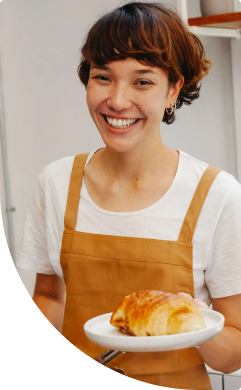
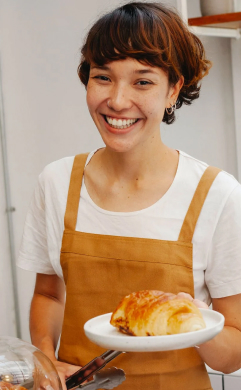
add imeges

Changed region(s): [[0.0, 0.5231, 0.8133, 1.0], [0.9876, 0.9846, 1.0, 1.0], [0.9876, 0.0, 1.0, 0.0308]]

diff --git a/css/styles.css b/css/styles.css
@@ -33,13 +33,16 @@
 :root {
   ---color-primary-dark: #31261a;
   ---color-primary-light: #faf4ea;
-  --color-brand-light: #819857;
+  ---color-secondary-dark: #a28268;
+  --color-brand-normal: #819857;
   ---color-brand-dark: #465929;
+  ---color-brand-light: #cfcfbc;
 }
 
 /* Base*/
 body {
   color: var(---color-primary-dark);
+  background-color: var(---color-primary-light);
   line-height: 1.5;
   font-family: "poppis", sans-serif;
   font-size: 18px;
@@ -87,8 +90,8 @@ ul {
   padding: 16px 32px;
   color: var(---color-primary-light);
   font-weight: 600;
-  background-color: var(--color-brand-light);
-  border: 2px solid var(--color-brand-light);
+  background-color: var(--color-brand-normal);
+  border: 2px solid var(--color-brand-normal);
   border-radius: 8px;
   cursor: pointer;
 }
@@ -106,7 +109,7 @@ ul {
 }
 
 .link:hover {
-  color: var(--color-brand-light);
+  color: var(--color-brand-normal);
 }
 /* Header */
 .header-container {
@@ -131,6 +134,10 @@ ul {
 /*hero section*/
 .hero-section {
   padding: 272px 0;
+  background-image: url("../images/fonherosection.jpeg");
+  background-repeat: no-repeat;
+  background-position: center top;
+  background-size: cover;
 }
 .hero-title {
   margin-bottom: 0;
@@ -141,13 +148,13 @@ ul {
 }
 
 .hero-title .accent {
-  color: var(--color-brand-light);
+  color: var(--color-brand-normal);
 }
 
 /* Advantages section*/
 .advantages-section {
   padding: 16px 0;
-  background-color: var(--color-brand-light);
+  background-color: var(--color-brand-normal);
 }
 .advantages-list {
   display: flex;
@@ -163,6 +170,9 @@ ul {
   font-size: 64px;
   font-weight: 900;
   line-height: 1.3;
+}
+.section-title.centered {
+  text-align: center;
 }
 
 .section-title .accent {
@@ -185,7 +195,7 @@ ul {
   margin-bottom: 42px;
 }
 .tradition-text .brand {
-  color: var(--color-brand-light);
+  color: var(--color-brand-normal);
   font-weight: 600;
 }
 .tradition-text .uppercase {
@@ -197,7 +207,21 @@ ul {
 
 /* shef section */
 .shefs-title {
-  margin-bottom: 80px;
+  max-width: 520px;
+  margin: 0 auto 80px;
+}
+.shefs-title::before,
+.shefs-title::after {
+  display: block;
+  width: 352px;
+  border: 2px solid var(---color-brand-light),
+    -16px 16px 0 2px var(---color-secondary-dark);
+  content: "";
+}
+.shef-photo {
+  border-radius: 4px 4px 4px 200px;
+  box-shadow: -16px 16px 0 0 var(---color-primary-light),
+    -16px 16px 0 2px var(---color-secondary-dark);
 }
 .shef-title {
   margin-bottom: 16px;
@@ -212,11 +236,19 @@ ul {
   gap: 20px;
 }
 .formats-item {
-  flex-basis: calc((100%-40px) / 3);
+  flex-basis: calc((100% - 40px) / 3);
 }
 .format-card {
+  height: 444px;
   padding: 24px;
+  background-image: linear-gradient(
+    180deg,
+    rgba(49, 38, 26, 0) 55.21%,
+    rgba(49, 38, 26, 0.71) 72.92%,
+    #31261a 100%
+  );
   border-radius: 16px;
+  border: 1px solid;
 }
 .formats-title {
   margin-bottom: 80px;
@@ -224,6 +256,10 @@ ul {
 .format-title {
   font-size: 24px;
   font-weight: 600;
+}
+.format-text {
+  font-size: 14px;
+  font-weight: 300;
 }
 /* Contact section */
 .contact-title {
@@ -239,8 +275,15 @@ ul {
 }
 
 .address-link:hover {
-  color: var(--color-brand-light);
+  color: var(--color-brand-normal);
 }
 .address-copyright {
   font-size: 14px;
+}
+.footer {
+  background-image: url("../images/footerfon.png");
+  background-color: var(---color-primary-dark);
+  background-repeat: no-repeat;
+  background-size: cover;
+  background-position: center;
 }

diff --git a/index.html b/index.html
@@ -74,22 +74,27 @@
       </section>
       <section class="section" id="shef-section">
         <div class="container">
-          <h2 class="shefs-title section-title">
+          <h2 class="shefs-title section-title centered">
             Наші найкращі <span class="accent">шеф-кухарі</span>
           </h2>
           <ul>
             <li>
               <article>
+                <img
+                  class="shef-photo"
+                  src="./images/настя.jpeg"
+                  alt="Nastya"
+                />
                 <h3 class="shef-title">Настя</h3>
                 <p>Привіт, я Настя!</p>
                 <p>Вже 10 років, я втілюю у життя цікаві та смачні ідеї.</p>
                 <p>Я випічу для вас найсмачніщі вироби!</p>
               </article>
             </li>
-          </ul>
-          <article>
-            <ul>
-              <li>
+
+            <li>
+              <article>
+                <img class="shef-photo" src="./images/Влад.jpeg" alt="Vlad" />
                 <h3 class="shef-title">Влад</h3>
                 <p>Привіт, я Влад!</p>
                 <p>
@@ -97,14 +102,14 @@
                   любов, з якою ми ділимось кожен раз з Вами через нашу випічку!
                 </p>
                 <p>Я зроблю для вас унікальну начинку на будь який смак!</p>
-              </li>
-            </ul>
-          </article>
+              </article>
+            </li>
+          </ul>
         </div>
       </section>
       <section class="section" id="formats-section">
         <div class="container">
-          <h2 class="formats-title section-title">Формати</h2>
+          <h2 class="formats-title section-title centered">Формати</h2>
           <ul class="formats-list">
             <li class="formats-item">
               <article class="format-card">
@@ -162,7 +167,7 @@
         </div>
       </section>
     </main>
-    <footer>
+    <footer class="footer">
       <div class="container">
         <nav>
           <a href="#">
